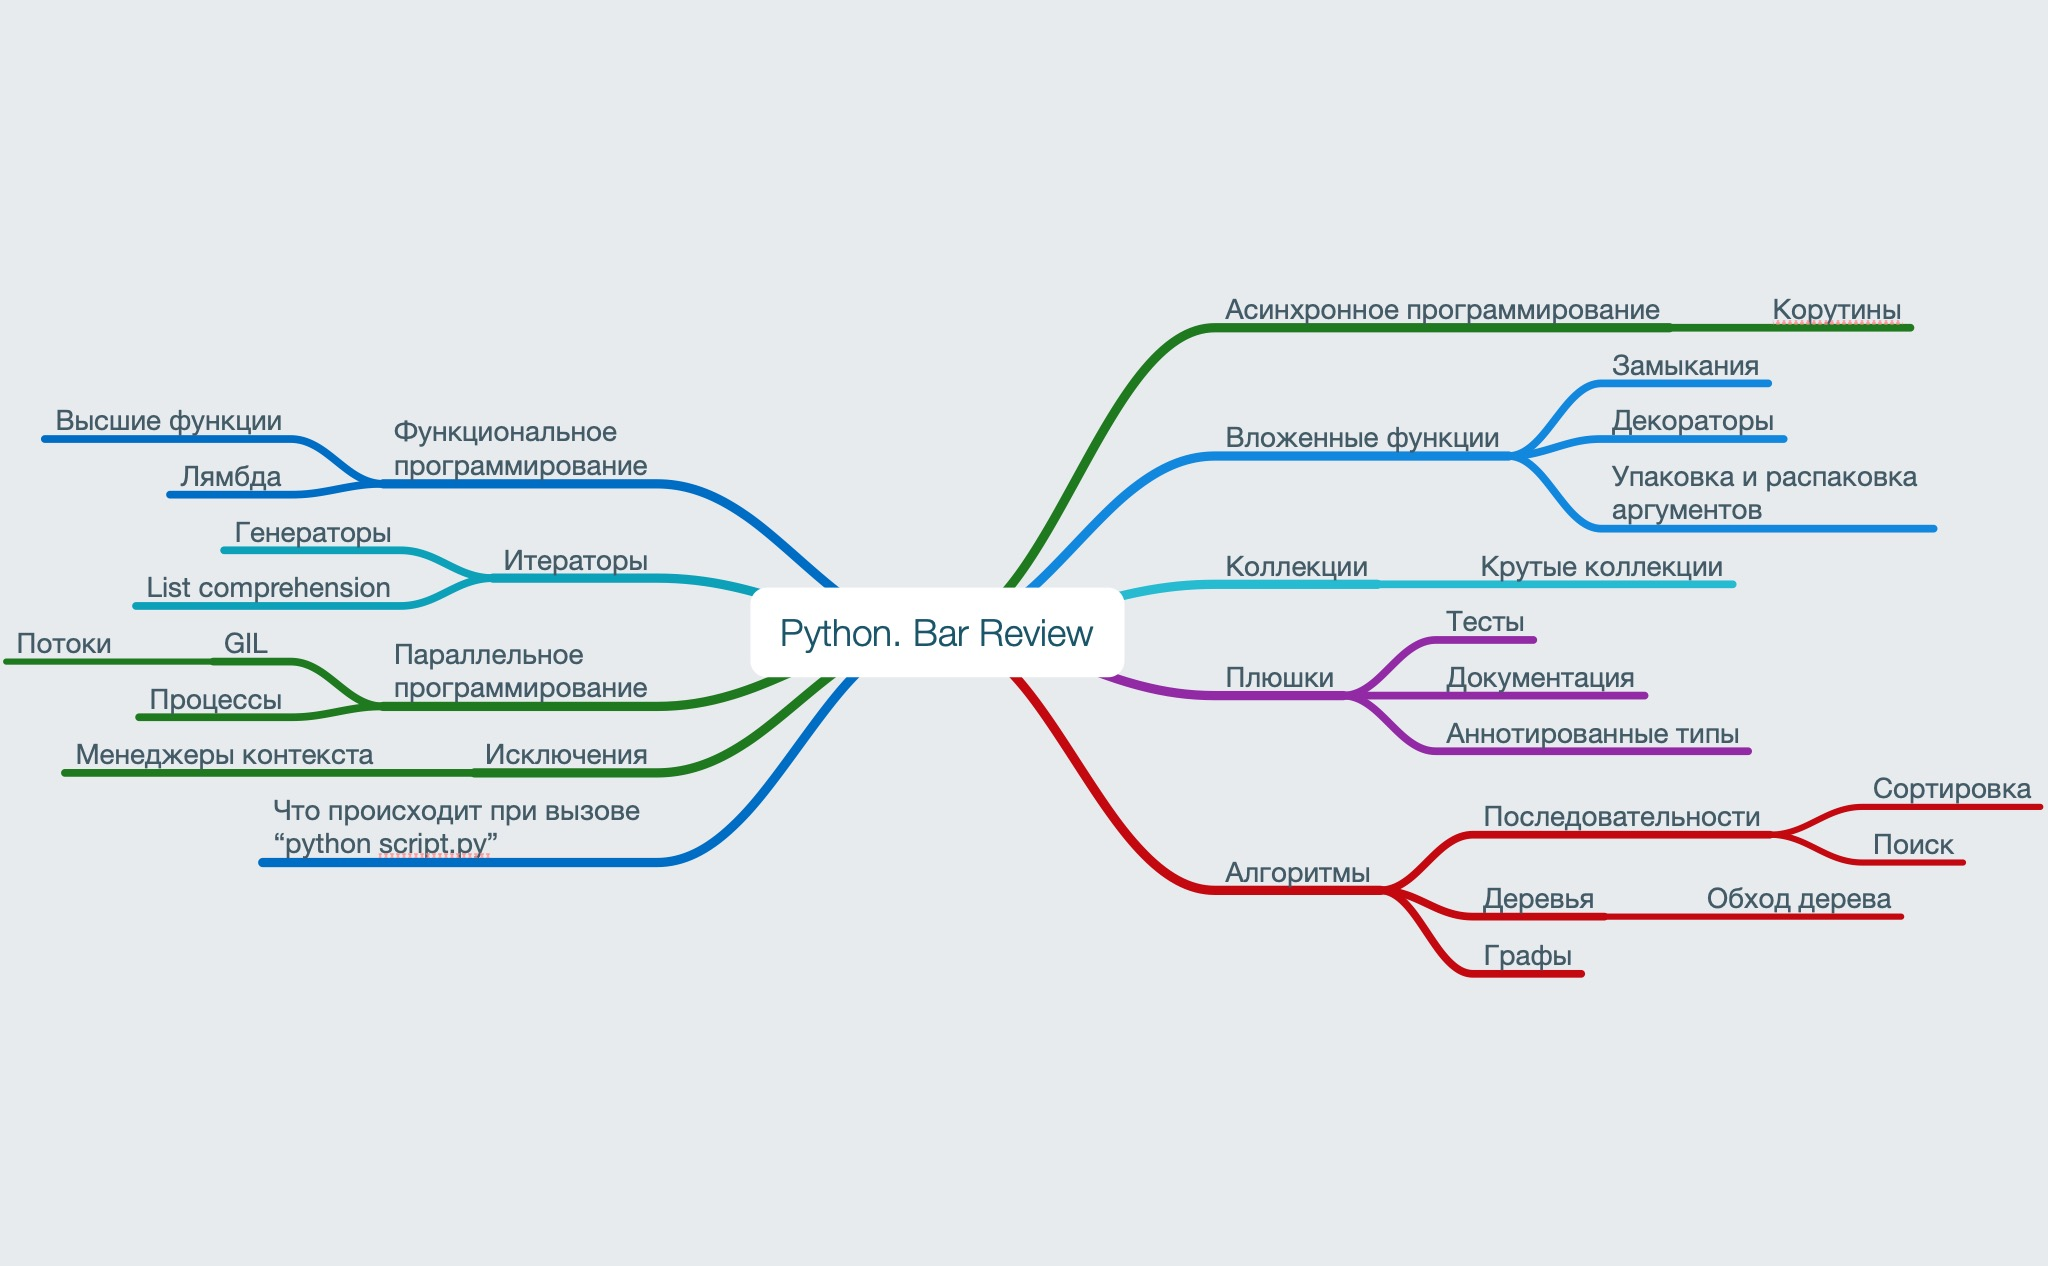
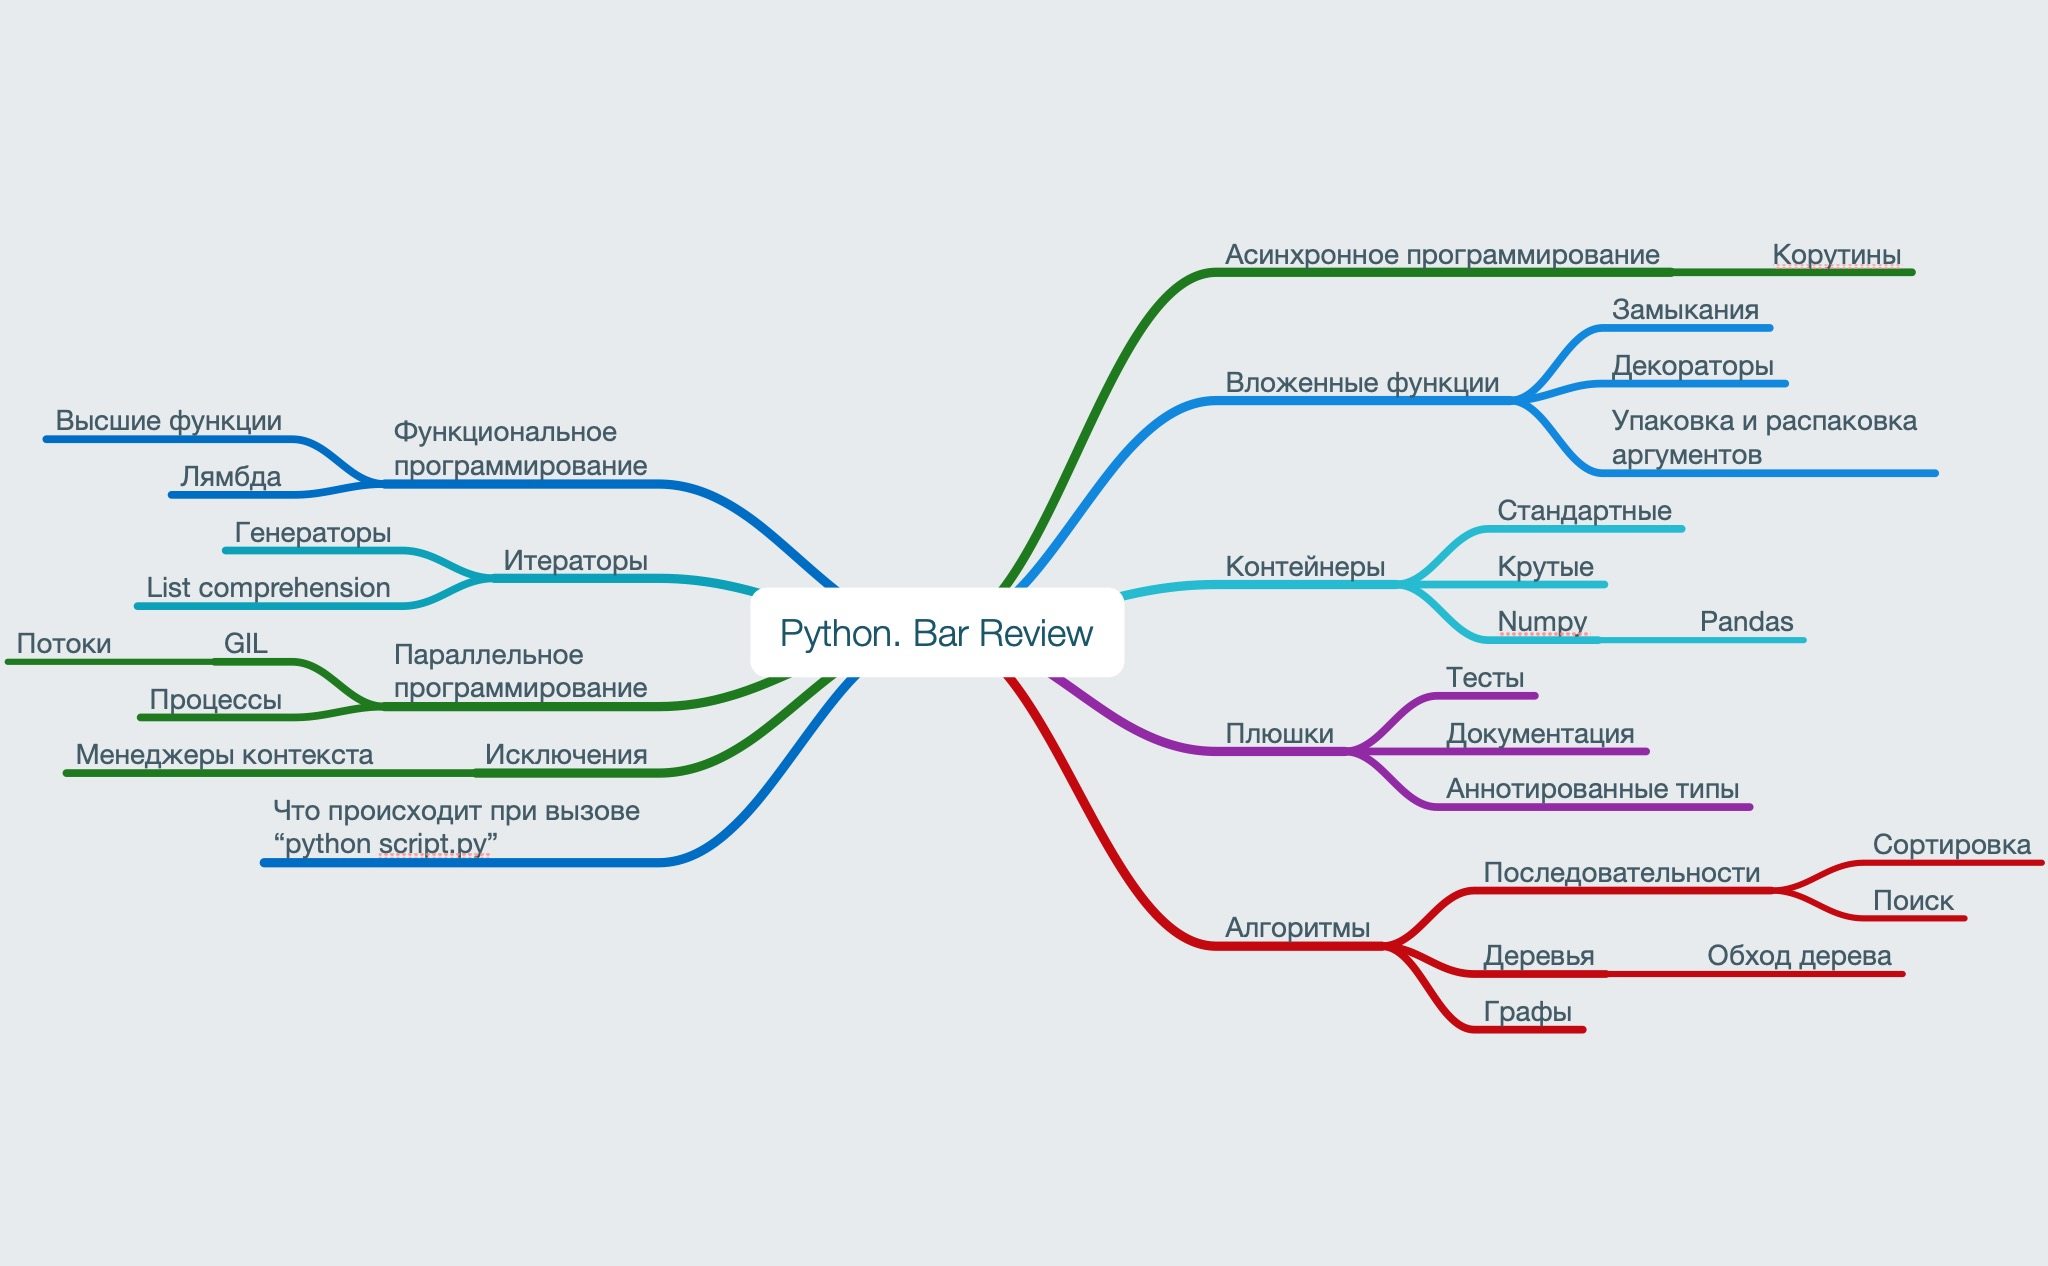
fix(Readme): update README and rename topic in syllabus

Changed region(s): [[0.4688, 0.1848, 1.0, 0.8318]]

diff --git a/syllabus/syllabus.mm b/syllabus/syllabus.mm
@@ -4,7 +4,10 @@
 <node ID="023BF15F-4CBC-48BD-B8C4-F1ABDEA6B1EC" TEXT="&#1044;&#1077;&#1082;&#1086;&#1088;&#1072;&#1090;&#1086;&#1088;&#1099;" COLOR="#435B66" POSITION="right" STYLE="fork"><edge COLOR="#1286DE" WIDTH="5" /><font NAME="HelveticaNeue" SIZE="18" /></node>
 <node ID="C581C0E2-488C-4DAD-AC4A-4E69DBB9EBCA" TEXT="&#1059;&#1087;&#1072;&#1082;&#1086;&#1074;&#1082;&#1072; &#1080; &#1088;&#1072;&#1089;&#1087;&#1072;&#1082;&#1086;&#1074;&#1082;&#1072; &#1072;&#1088;&#1075;&#1091;&#1084;&#1077;&#1085;&#1090;&#1086;&#1074;" COLOR="#435B66" POSITION="right" STYLE="fork"><edge COLOR="#1286DE" WIDTH="5" /><font NAME="HelveticaNeue" SIZE="18" /></node>
 </node>
-<node ID="C0220CFD-A3BE-4C79-B2D3-633D93D4E8A9" TEXT="&#1050;&#1086;&#1083;&#1083;&#1077;&#1082;&#1094;&#1080;&#1080;" COLOR="#435B66" POSITION="right" STYLE="fork"><edge COLOR="#25BAD1" WIDTH="6" /><font NAME="HelveticaNeue" SIZE="18" /><node ID="29D1FE3F-DA1B-400C-9C0A-5FA8BA569C10" TEXT="&#1050;&#1088;&#1091;&#1090;&#1099;&#1077; &#1082;&#1086;&#1083;&#1083;&#1077;&#1082;&#1094;&#1080;&#1080;" COLOR="#435B66" POSITION="right" STYLE="fork"><edge COLOR="#25BAD1" WIDTH="5" /><font NAME="HelveticaNeue" SIZE="18" /></node>
+<node ID="C0220CFD-A3BE-4C79-B2D3-633D93D4E8A9" TEXT="&#1050;&#1086;&#1085;&#1090;&#1077;&#1081;&#1085;&#1077;&#1088;&#1099;" COLOR="#435B66" POSITION="right" STYLE="fork"><edge COLOR="#25BAD1" WIDTH="6" /><font NAME="HelveticaNeue" SIZE="18" /><node ID="29D1FE3F-DA1B-400C-9C0A-5FA8BA569C10" TEXT="&#1057;&#1090;&#1072;&#1085;&#1076;&#1072;&#1088;&#1090;&#1085;&#1099;&#1077;" COLOR="#435B66" POSITION="right" STYLE="fork"><edge COLOR="#25BAD1" WIDTH="5" /><font NAME="HelveticaNeue" SIZE="18" /></node>
+<node ID="F9585E78-6528-4F38-9D5A-A3D3A4517D61" TEXT="&#1050;&#1088;&#1091;&#1090;&#1099;&#1077;" COLOR="#435B66" POSITION="right" STYLE="fork"><edge COLOR="#25BAD1" WIDTH="5" /><font NAME="HelveticaNeue" SIZE="18" /></node>
+<node ID="4914A1A3-D3C8-4916-B5EC-4465EC121BB1" TEXT="Numpy" COLOR="#435B66" POSITION="right" STYLE="fork"><edge COLOR="#25BAD1" WIDTH="5" /><font NAME="HelveticaNeue" SIZE="18" /><node ID="6E85FA9A-EE04-4BBD-9E30-794FDA604EE5" TEXT="Pandas" COLOR="#435B66" POSITION="right" STYLE="fork"><edge COLOR="#25BAD1" WIDTH="4" /><font NAME="HelveticaNeue" SIZE="18" /></node>
+</node>
 </node>
 <node ID="DA55AC8F-4DC9-4E64-A98B-B39C810A7DAB" TEXT="&#1055;&#1083;&#1102;&#1096;&#1082;&#1080;" COLOR="#435B66" POSITION="right" STYLE="fork"><edge COLOR="#922AA4" WIDTH="6" /><font NAME="HelveticaNeue" SIZE="18" /><node ID="98374155-4B7B-4C69-9FD7-BB05AFDBAD1D" TEXT="&#1058;&#1077;&#1089;&#1090;&#1099;" COLOR="#435B66" POSITION="right" STYLE="fork"><edge COLOR="#922AA4" WIDTH="5" /><font NAME="HelveticaNeue" SIZE="18" /></node>
 <node ID="E003D9E8-A8B7-46EF-A676-8E44193AACE4" TEXT="&#1044;&#1086;&#1082;&#1091;&#1084;&#1077;&#1085;&#1090;&#1072;&#1094;&#1080;&#1103;" COLOR="#435B66" POSITION="right" STYLE="fork"><edge COLOR="#922AA4" WIDTH="5" /><font NAME="HelveticaNeue" SIZE="18" /></node>

diff --git a/README.md b/README.md
@@ -22,7 +22,7 @@ pipenv run jupyter notebook
 
 1. [Вложенные функции, замыкания и декораторы](01-nested_functions-closures-decorators.ipynb)
 2. [Итераторы, генераторы и функциональное программирование](02-iterators-generators-functional_programming.ipynb)
-3. [Коллекции — WIP](#)
+3. [Контейнеры — WIP](03-containers.ipynb)
 
 ## Идеи для занятий (файл может меняться)
 <img src="syllabus/syllabus.png" width="100%"/>
